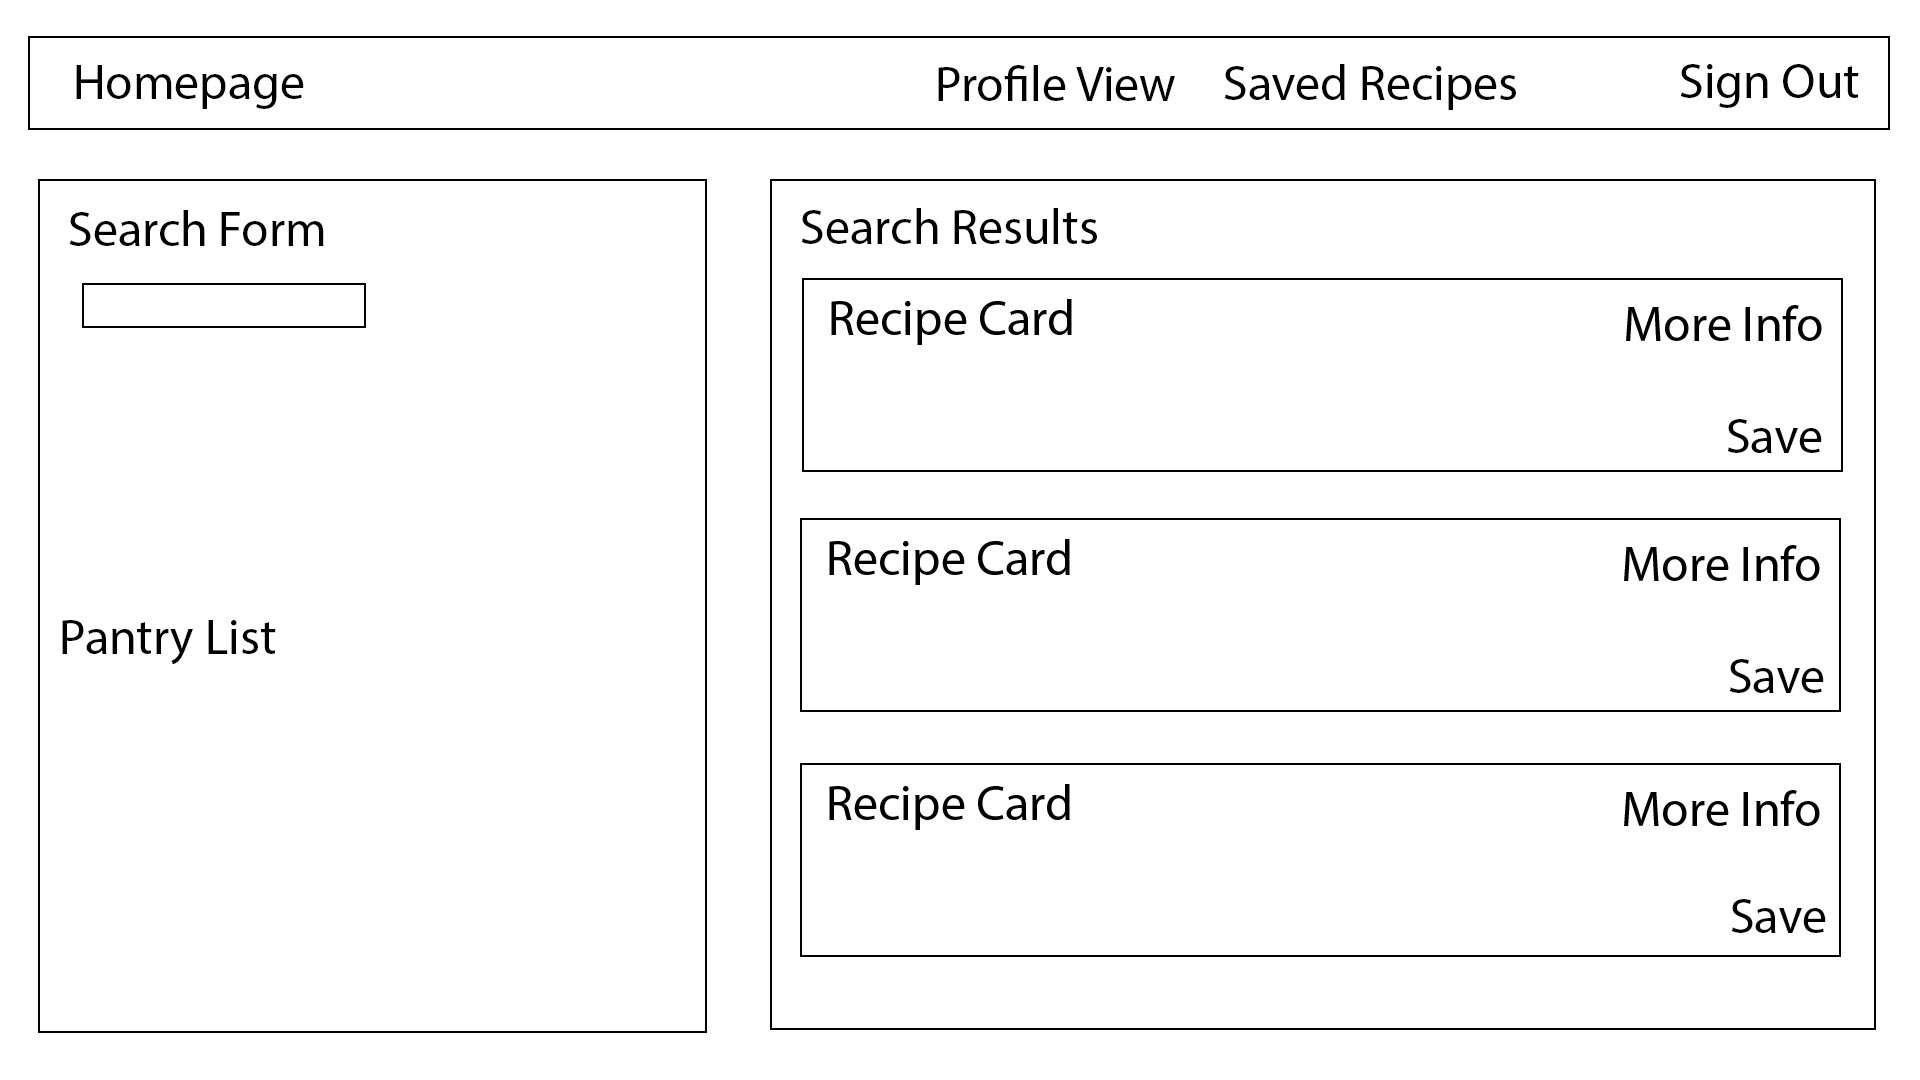
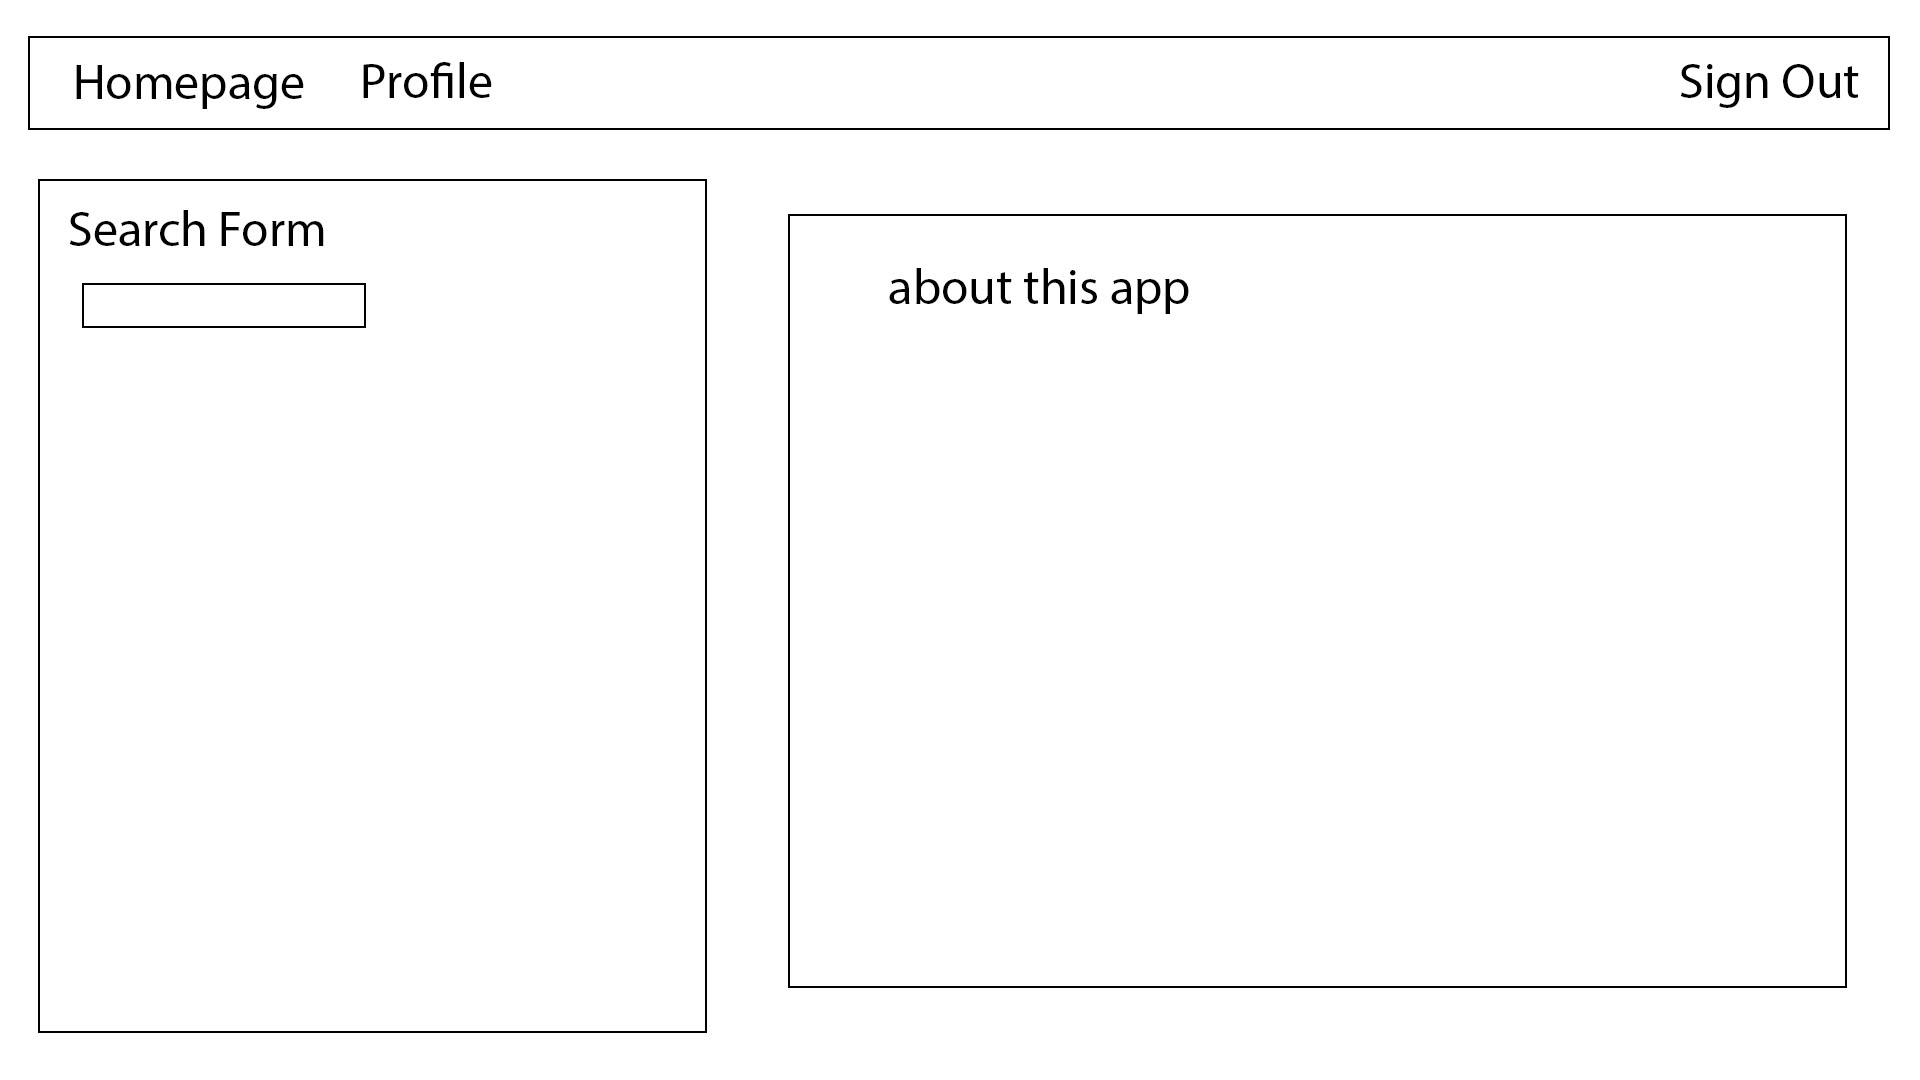
updates

diff --git a/controllers/usersControllers.js b/controllers/usersControllers.js
@@ -2,17 +2,14 @@ const router = require('express').Router()
 const db = require('../models')
 const cryptojs = require('crypto-js')
 const bcrypt = require('bcrypt')
-// const SECRET_STRING = process.env.SECRET_STRING
 
+// Display signup page
 router.get('/new', (req, res) => {
     res.render('users/new')
 })
 
-router.get('/profile', (req, res) => {
-    res.render('users/profile')
-})
-
-router.post('/', async (req, res)=> {
+// Create user
+router.post('/new', async (req, res)=> {
     const plainPassword = req.body.password
     const hashedPassword = bcrypt.hashSync(plainPassword, 12)
 
@@ -24,32 +21,45 @@ router.post('/', async (req, res)=> {
     const encryptedUserId = cryptojs.AES.encrypt(newUser.id.toString(), process.env.SECRET_STRING)
     const encryptedUserIdString = encryptedUserId.toString()
     res.cookie('userId', encryptedUserIdString)
-
-    // res.cookie('userId', newUser.id)
     res.redirect('/users/profile')
 })
 
+
+// Display login page
 router.get('/login', (req, res) => {
     res.render('users/login')
 })
 
+// Log in the user
 router.post('/login', async (req, res) => {
-    const user = await db.user.findOne({
-        where: { email: req.body.email}
-    })
-    if (bcrypt.compareSync(req.body.password, user.password)) {
-        const encryptedUserId = cryptojs.AES.encrypt(user.id.toString(), process.env.SECRET_STRING)
-        const encryptedUserIdString = encryptedUserId.toString()
+    try {
+        const user = await db.user.findOne({
+            where: { email: req.body.email}
+        })
+        if (bcrypt.compareSync(req.body.password, user.password)) {
+            const encryptedUserId = cryptojs.AES.encrypt(user.id.toString(), process.env.SECRET_STRING)
+            const encryptedUserIdString = encryptedUserId.toString()
+            res.cookie('userId', encryptedUserIdString)
+            res.redirect('/users/profile')
+        } else {
+            res.render('users/login', { errors: "Invalid email/password" })
+        }
     
-        res.cookie('userId', encryptedUserIdString)
-        res.redirect('/users/profile')
-    } else {
-        res.render('users/login')
+    } catch (error) {
+        console.log(error)
+        res.render('users/login', { errors: "Invalid email/password" })
     }
 })
 
+//Show user profile
+router.get('/profile', (req, res) => {
+    res.render('users/profile')
+})
+
+// Logout the user by removing their cookie
 router.get('/logout', (req, res) => {
     res.clearCookie('userId')
     res.redirect('/')
 })
+
 module.exports = router

diff --git a/server.js b/server.js
@@ -1,7 +1,8 @@
+/* Required Modules and Variables */
 require('dotenv').config()
 const express = require('express')
 const rowdy = require('rowdy-logger')
-const axios = require('axios')
+// const axios = require('axios')
 const db = require('./models')
 const ejsLayouts = require('express-ejs-layouts')
 const methodOverride = require('method-override')
@@ -9,15 +10,15 @@ const morgan = require('morgan')
 const cookieParser = require('cookie-parser')
 const cryptojs = require('crypto-js')
 const bcrypt = require('bcrypt')
-const EDAMAM_APP_ID = process.env.EDAMAM_APP_ID
-const EDAMAM_APP_KEY = process.env.EDAMAM_APP_KEY
-
-
+// const EDAMAM_APP_ID = process.env.EDAMAM_APP_ID
+// const EDAMAM_APP_KEY = process.env.EDAMAM_APP_KEY
 const app = express()
 // const PORT = process.env.PORT || 3000
 const PORT = 3000
 const rowdyRes = rowdy.begin(app)
 
+
+/* Middleware and config */
 app.set('view engine', 'ejs')
 app.use(express.static('public'))
 app.use(express.urlencoded({ extended: false }))
@@ -26,6 +27,8 @@ app.use(methodOverride('_method'))
 app.use(morgan('dev'))
 app.use(cookieParser())
 
+
+// Adds the user to res.locals.user if there's a cookie
 app.use(async (req, res, next) => {
     if (req.cookies.userId) {
         const decryptedUserId = cryptojs.AES.decrypt(req.cookies.userId, process.env.SECRET_STRING)
@@ -38,25 +41,19 @@ app.use(async (req, res, next) => {
     next()
 })
 
+
+/* Controllers */
+app.use('/recipes', require('./controllers/recipesControllers'))    
+app.use('/users', require('./controllers/usersControllers'))
+
+
+/* Routes */
+//Show the homepage
 app.get('/', function(req, res) {
     res.render('index')
 })
 
-app.get('/results', async(req, res) => {
-    try {
-        const search = `${req.query.search1}+${req.query.search2}+${req.query.search3}+${req.query.search4}+${req.query.search2}`
-        // const maxIngr = `&ingr=${req.query.ingr}`
-        const results = await axios.get(`https://api.edamam.com/search?q=${search}&app_id=${EDAMAM_APP_ID}&app_key=${EDAMAM_APP_KEY}`)
-        // console.log(results.data)
-        res.render('results', { hits: results.data.hits })
-    } catch(error){
-        console.log(error)
-    }
-})
-    
-app.use('/users', require('./controllers/usersControllers'))
-    
+
 app.listen(PORT, () => {
-    console.log('server started!');
     rowdyRes.print()
 })

diff --git a/controllers/recipesControllers.js b/controllers/recipesControllers.js
@@ -1,0 +1,31 @@
+const router = require('express').Router()
+const db = require('../models')
+const cryptojs = require('crypto-js')
+const bcrypt = require('bcrypt')
+const axios = require('axios')
+const EDAMAM_APP_ID = process.env.EDAMAM_APP_ID
+const EDAMAM_APP_KEY = process.env.EDAMAM_APP_KEY
+
+router.get('/results', async(req, res) => {
+    try {
+        const search = `${req.query.search1}+${req.query.search2}+${req.query.search3}+${req.query.search4}+${req.query.search2}`
+        // const maxIngr = `&ingr=${req.query.ingr}`
+        const results = await axios.get(`https://api.edamam.com/search?q=${search}&app_id=${EDAMAM_APP_ID}&app_key=${EDAMAM_APP_KEY}`)
+        // console.log(results.data)
+        res.render('recipes/results', { hits: results.data.hits })
+    } catch(error){
+        console.log(error)
+    }
+})
+
+router.get('/detail', async (req, res) => {
+    try {
+
+        // const deets = await axios.get(`https://api.edamam.com/search?r=${uri}&app_id=${EDAMAM_APP_ID}&app_key=${EDAMAM_APP_KEY}`)
+        res.render('recipes/detail')
+    } catch (error) {
+        console.log(error)
+    }
+})
+
+module.exports = router

diff --git a/README.md b/README.md
@@ -56,6 +56,8 @@ Sunday:
 ### Wireframes
 #### Homepage ( / )
 ![WIREFRAME0](./assets/kitchen_sink_wireframe0.jpg)
+#### Homepage while signed in ( / ) 
+![WIREFRAME0](./assets/kitchen_sink_wireframe6.jpg)
 #### Homepage with Search ( /results )
 ![WIREFRAME1](./assets/kitchen_sink_wireframe1.jpg)
 #### Homepage with Search while signed in ( /results )
@@ -66,8 +68,6 @@ Sunday:
 ![WIREFRAME4](./assets/kitchen_sink_wireframe4.jpg)
 #### Profile View (/users/:id)
 ![WIREFRAME5](./assets/kitchen_sink_wireframe5.jpg)
-#### Profile View (/users/:id)
-![WIREFRAME6](./assets/kitchen_sink_wireframe6.jpg)
 #### Recipe Details View (/recipes/:id)
 ![WIREFRAME7](./assets/kitchen_sink_wireframe7.jpg)
 ### Database ERDs
